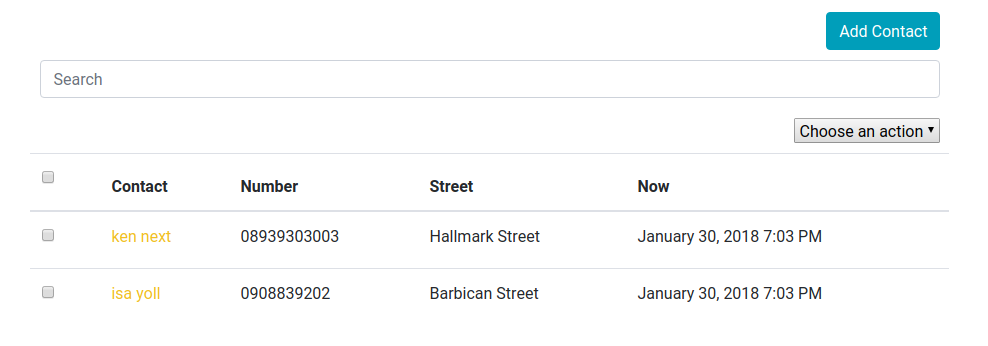
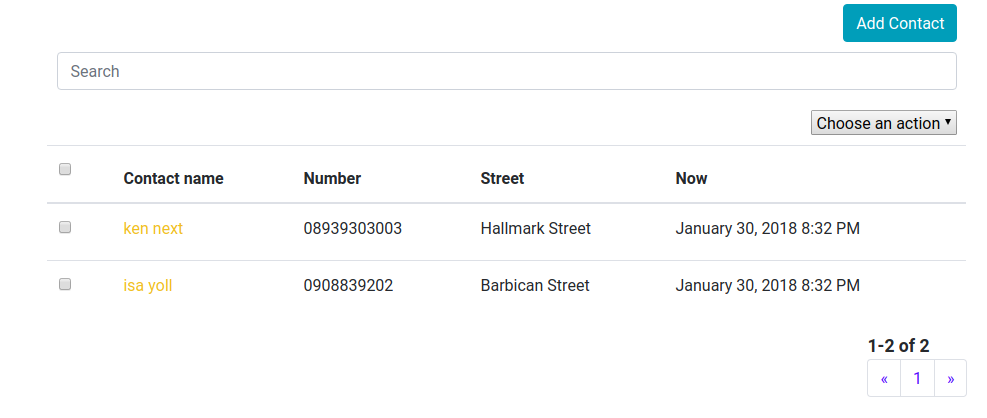
adding more changes to README.md

diff --git a/src/admin.js b/src/admin.js
@@ -57,7 +57,7 @@ class Admin extends React.Component {
      * @returns {object[]} An array of objects.
      */
 
-    get_queryset(page_number=this.state.page_number,list_per_page=this.list_per_page)
+    get_queryset(page_number=this.state.page_number,list_per_page=this.list_per_page,queryset=this.state.queryset)
     {
     
 
@@ -173,8 +173,20 @@ class Admin extends React.Component {
 	return {}
 	
     }
-    
-    
+     /**
+	* Returns the number of items to be listed in a page. Can be overridden by `list_per_page`.
+         *@return {number} The number of objects in a page 
+     */
+
+    get_list_per_page()
+    {
+	if(this.list_per_page)
+	{
+	    return this.list_per_page
+	}
+	return 10
+    }
+	   
     /**
      * Gets an actions object whose properties are action names and values are action methods.
      * This can be overridden by the action member variable. The default "delete" method is not
@@ -281,9 +293,9 @@ class Admin extends React.Component {
      */
 
     
-    search(term)
+    search(term,queryset)
     {
-	return this.state.queryset
+	return queryset
     }
     /**
      * Grants permission to delete object. This method is not implemented and can be handled via
@@ -648,7 +660,7 @@ class Admin extends React.Component {
 	    let key= event.which || event.keyCode;
             if(this.live_search || key==13)
 	    {
-		let queryset=this.search(term);
+		let queryset=this.search(term,this.state.queryset);
 		this.setState({queryset:queryset,total:queryset.length})
 
 	    }

diff --git a/src/example.js b/src/example.js
@@ -36,11 +36,11 @@ class Example extends Admin
 	return  _.orderBy(queryset,field_names,field_orders);
     }
 
-    search(term)
+    search(term,queryset)
     {
 	
 	let queryset=[];
-	for(var object of this.state.queryset)
+	for(var object of queryset)
 	{
 	    if(object.name.search(new RegExp(term,"i"))>=0)
 	    {

diff --git a/src/.#admin.js b/src/.#admin.js
@@ -1,0 +1,1 @@
+mubarak@mubarak-Inspiron-3558.22914:1517310477

diff --git a/README.md b/README.md
@@ -44,7 +44,7 @@ Create a new file `example.js` in the `\src` folder, in that file add the follow
 
 	}
      }
-    get_queryset()
+    get_queryset(page_number,list_per_page,queryset)
     {
     	// the actual array containing objects to be displayed
 	return [
@@ -93,7 +93,7 @@ export default class Example extends Admin
 	this.list_display_links=['name'];
 	this.list_display=['name','number','address.street']
     }
-    get_queryset()
+    get_queryset(page_number,list_per_page,queryset)
     {
 	return [
 	    {id: 1, name: 'Ken Next', number: '08939303003',address:{ street: "Hallmark Street"}},
@@ -153,7 +153,7 @@ The output in your browser after clicking the first contact's name should be
 Data is primarily injected through `get_queryset`.
 
 ```javascript
-get_queryset()
+get_queryset(page_number,list_per_page,queryset)
     {
 	return [
 	    {id: 1, name: 'Ken Next', number: '08939303003',address:{ street: "Hallmark Street"}},
@@ -167,7 +167,7 @@ The `get_queryset` method returns the queryset array including objects to be dis
 The example below returns the queryset in the current state object synchronously and sets a new queryset when the asynchronous call returns successfully. `set_queryset` invokes `setState` internally.
 
 ```javascript
-get_queryset()
+get_queryset(page_number,list_per_page,queryset)
     {
 	fetch("/path/to/backend",{method : 'get'}).then((response)=>{
 		if(response.ok)
@@ -177,7 +177,7 @@ get_queryset()
 	        }		
 
         })
-	return this.state.queryset;
+	return queryset;
     }
 ```
 
@@ -230,10 +230,10 @@ Table headers in the list display view are obtained from property names in `get_
 ```javascript
 get_header_transforms()
 {
-  return { 'name' : function(name)
+  return { 'name' : function(header)
   	                  {
                             
-			    return 'Contact '+name	
+			    return 'Contact '+header	
                         }
               }
 }
@@ -247,10 +247,10 @@ Should produce
 Header transforms can be defined using the instance variable `header_transforms` (which is always overridden by `get_header_transforms`).
 
 ```javascript
-this.header_transforms = { 'name' : function(name)
+this.header_transforms = { 'name' : function(header)
   	                    {
                             
-			    return 'Contact '+name	
+			    return 'Contact '+header	
                             }
                           }
 
@@ -279,6 +279,8 @@ this.field_transforms ={ 'name' : function(content,object)
                           }
                         }
 ```
+The first argument of the transform function is the content to be displayed while the second item is the current object.
+
 This produces
 
 ![example31](assets/example3-1.png)
@@ -324,11 +326,71 @@ Don't forget to install moment with `npm install moment --save` and add `import 
 
 ![example32](assets/example3-2.png)
 
-
 #### Pagination
+`get_list_per_page` method  returns the number of items to be listed in a page. Can be overridden by `list_per_page`.
+
+```javascript
+this.list_per_page=10
+```
+or
+```javascript
+get_list_per_page()
+{
+ return 10
+
+}
+```
 ### Search
-#### Live Search
+Search is not implemented by default. One has to implement the `search(term,queryset)` method.
+For our previous example, we can implement search by matching the search term with the "name" property of all objects in the queryset. The method returns the filtered queryset. Optionally, if search requires an asynchronous call to a backend, one can use `set_queryset`.
+
+```javascript
+    search(term,queryset)
+    {
+	
+	let filtered_queryset=[];
+	for(var object of queryset)
+	{
+	    if(object.name.search(new RegExp(term,"i"))>=0)
+	    {
+		filtered_queryset.push(object)
+
+	    }
+	    
+	}
+	return filtered_queryset;
+    }
+
+
+```
+or asynchronously
+
+```javascript
+    search(term,queryset)
+    {
+	fetch("/path/to/backend/search?q="+term,{method : 'get'}).then((response)=>{
+		if(response.ok)
+		{
+			this.set_queryset(response.results);
+
+	        }		
+
+        })
+	return queryset;
+
+    }
+
+
+```
+
+We can enable live search by
+
+```javascript
+this.live_search=true
+```
+
 ### Sorting
+
 ### Actions
 ## Add/Change View
 ### Forms
